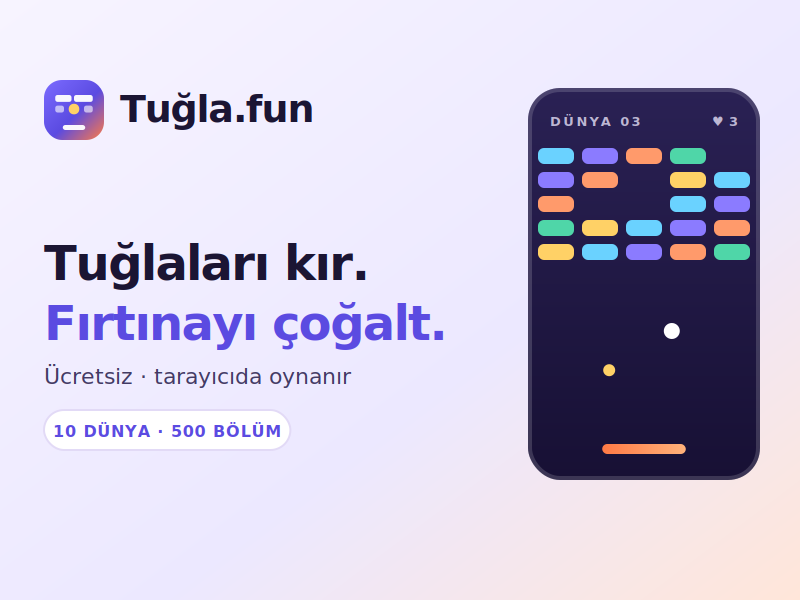
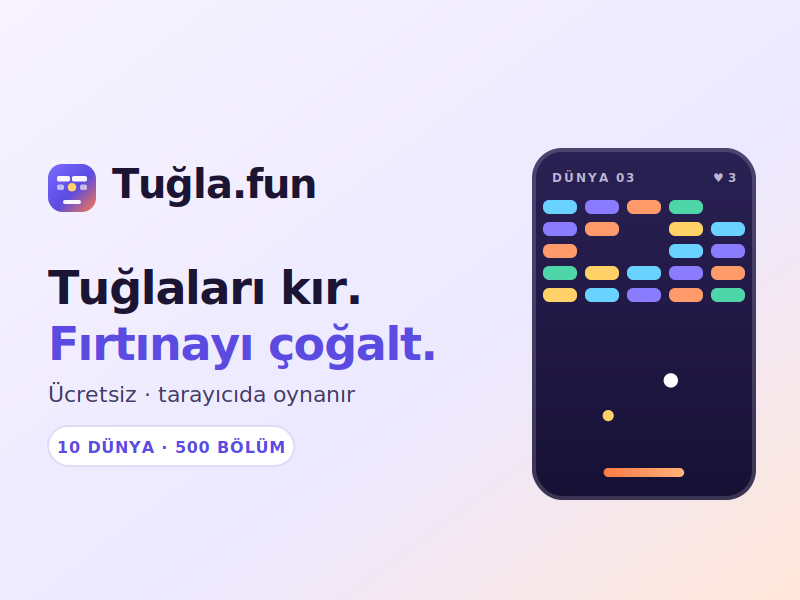
feat: canlı tuğla renkleri, tek HUD, saniye cinsinden süre ve listeleme görseli (web, marka) · v3.0
- tuğla renkleri: her NORMAL blok dünyanın tek rengini alıyordu, bu yüzden tüm
  tahta tek düze maviydi. Renk artık bloğun kendi konumundan seçiliyor (yedi
  tonluk canlı palet, açılış sahnesindeki gibi); özel türler anlamlarını
  koruyor. Malzeme parlaklığı rengi bastırmayacak şekilde düşürüldü
- HUD tek panelde ve solda: skor, kombo, can, aktif top, kalan blok ve süre yan
  yana; iki kenara bölünmüş düzen dikkati bölüyordu
- süre saniye cinsinden gösteriliyor (0:29 yerine 29 sn)
- açılış sayfasında iki sütun aynı çizgiden başlıyor; dikey ortalama biri altta
  biri üstte görünmesine yol açıyordu
- 400x300 listeleme görseli: dizinin YENİ rozeti markanın üstüne biniyordu.
  Üst şerit (sol %30 x üst %22) tamamen boş bırakıldı, marka mesaj sütununa
  taşındı; ölçümle doğrulandı
- sürüm 3.0.0

diff --git a/apps/web/app/styles.css b/apps/web/app/styles.css
@@ -326,7 +326,9 @@ code {
      looking larger than the other. */
   grid-template-columns: 1fr 1fr;
   gap: 40px;
-  align-items: stretch;
+  /* Start both halves on the same line: centring them vertically made one look
+     lower than the other whenever their natural heights differed. */
+  align-items: start;
   justify-items: center;
   padding: 40px 20px 56px;
 }
@@ -335,10 +337,11 @@ code {
   flex-direction: column;
   gap: 18px;
   align-items: center;
-  justify-content: center;
+  justify-content: flex-start;
   text-align: center;
-  /* Identical measure to the playfield card so neither half dominates. */
+  /* Identical measure and starting line to the playfield card. */
   width: min(400px, 100%);
+  padding-top: 4px;
 }
 .hero-copy h1 {
   /* Capped so the message block stays the same height as the playfield card. */
@@ -375,9 +378,8 @@ code {
 .hero-visual {
   position: relative;
   display: grid;
-  place-items: center;
+  place-items: start center;
   width: min(400px, 100%);
-  min-height: 520px;
 }
 .orb {
   position: absolute;
@@ -1535,7 +1537,9 @@ textarea:focus {
 .game-stage {
   flex: 1;
   display: grid;
-  grid-template-columns: auto 1fr auto;
+  /* One HUD column, then the board. Splitting stats across both edges made the
+     player look in two places at once. */
+  grid-template-columns: auto 1fr;
   gap: 10px;
   padding: 0 12px;
   align-items: stretch;
@@ -1543,9 +1547,9 @@ textarea:focus {
 .hud-panel {
   display: flex;
   flex-direction: column;
-  gap: 2px;
+  gap: 10px;
   padding: 14px 12px;
-  min-width: 96px;
+  min-width: 104px;
   border-radius: var(--radius);
   background: rgba(255, 255, 255, 0.06);
   border: 1px solid var(--stage-line);
@@ -2011,12 +2015,11 @@ textarea:focus {
 }
 
 @media (max-width: 900px) {
-  /* The panels sit under the board as one strip; each stat keeps its own
-     column so labels can never collide with the numbers. Four columns on the
-     right-hand panel now that elapsed time is shown. */
+  /* Under the board as one strip; every stat keeps its own column so labels can
+     never collide with the numbers. */
   .hud-panel {
     display: grid;
-    grid-template-columns: repeat(auto-fit, minmax(64px, 1fr));
+    grid-template-columns: repeat(auto-fit, minmax(58px, 1fr));
     gap: 6px 10px;
     width: 100%;
     padding: 10px 12px;
@@ -2032,14 +2035,15 @@ textarea:focus {
     font-size: 0.98rem;
   }
   .game-stage {
-    grid-template-areas: 'canvas' 'hud' 'hud2';
+    grid-template-columns: 1fr;
+    grid-template-areas: 'canvas' 'hud';
     gap: 8px;
   }
-  .game-stage .hud-panel:first-of-type {
-    grid-area: hud;
+  .canvas-frame {
+    grid-area: canvas;
   }
-  .game-stage .hud-panel-right {
-    grid-area: hud2;
+  .game-stage .hud-panel {
+    grid-area: hud;
   }
   .game-topbar {
     gap: 8px;

diff --git a/apps/web/components/GameRenderer.ts b/apps/web/components/GameRenderer.ts
@@ -67,6 +67,17 @@ const PADDLE_COLORS = [
   { color: 0xffc2d6, emissive: 0xe5487f },
 ];
 
+/**
+ * Vivid tones for ordinary bricks.
+ *
+ * Giving every NORMAL block the world's single hue made whole boards read as
+ * one flat blue — the "kasvetli" look players reported. Tones are picked from
+ * the block's own position, so the wall is colourful but never random: the same
+ * board always paints the same way, and special kinds keep their meaning
+ * colours (armored grey, explosive red…).
+ */
+const BRICK_TONES = [0x52bdf5, 0x8b7bff, 0xff9a6b, 0x4fd6a8, 0xffd166, 0x7fd8ef, 0xff8ad0];
+
 export interface LevelStyle {
   theme: string;
   index: number;
@@ -167,11 +178,10 @@ export class GameRenderer {
     blockGeometry.translate(0, 0, -0.2);
     const blockMaterial = new THREE.MeshPhysicalMaterial({
       color: 0xffffff,
-      roughness: 0.26,
-      metalness: 0.12,
-      reflectivity: 0.75,
-      emissive: 0x120e2e,
-      emissiveIntensity: 0.3,
+      roughness: 0.32,
+      metalness: 0.05,
+      reflectivity: 0.7,
+      emissiveIntensity: 0,
       sheen: quality.level === 'LOW' ? 0 : 0.6,
       sheenRoughness: 0.4,
       clearcoat: quality.level === 'LOW' ? 0 : 1,
@@ -391,11 +401,17 @@ export class GameRenderer {
 
   private applyBlockColors() {
     this.engine.snapshot.blocks.forEach((block, index) => {
-      this.tempColor.setHex(
-        block.kind === 'NORMAL'
-          ? this.palette.block
-          : (BLOCK_COLORS[block.kind] ?? this.palette.block),
-      );
+      if (block.kind === 'NORMAL') {
+        // Tone from the brick's own position: the wall is colourful but stable,
+        // and neighbouring bricks always differ.
+        // origin is the block's authored position and never moves, so a moving
+        // block keeps its colour instead of flickering through the palette.
+        const column = Math.round(block.origin.x);
+        const row = Math.round(block.origin.y);
+        this.tempColor.setHex(BRICK_TONES[(column + row) % BRICK_TONES.length]!);
+      } else {
+        this.tempColor.setHex(BLOCK_COLORS[block.kind] ?? this.palette.block);
+      }
       this.blockMesh.setColorAt(index, this.tempColor);
     });
     if (this.blockMesh.instanceColor) this.blockMesh.instanceColor.needsUpdate = true;

diff --git a/apps/web/components/GameCanvas.tsx b/apps/web/components/GameCanvas.tsx
@@ -22,10 +22,7 @@ interface ViewState {
 }
 
 /** Ticks run at a fixed 120 Hz, so elapsed time is exact, not wall-clock. */
-const formatElapsed = (tick: number) => {
-  const seconds = Math.floor(tick / 120);
-  return `${Math.floor(seconds / 60)}:${String(seconds % 60).padStart(2, '0')}`;
-};
+const formatElapsed = (tick: number) => Math.floor(tick / 120);
 
 export interface CompletionSummary {
   accepted: boolean;
@@ -309,6 +306,22 @@ export function GameCanvas({
               <strong className="overcharge">×{view.overcharge.toFixed(2)}</strong>
             </div>
           )}
+          <div className="hud-stat">
+            <span>{t('game.hud.lives')}</span>
+            <strong className="hud-lives">{'♥'.repeat(Math.max(0, view.lives))}</strong>
+          </div>
+          <div className="hud-stat">
+            <span>{t('game.hud.balls')}</span>
+            <strong className="accent">{view.balls}</strong>
+          </div>
+          <div className="hud-stat">
+            <span>{t('game.hud.blocks')}</span>
+            <strong>{view.blocksRemaining}</strong>
+          </div>
+          <div className="hud-stat hud-time">
+            <span>{t('game.hud.time')}</span>
+            <strong>{t('game.hud.seconds', { seconds: formatElapsed(view.tick) })}</strong>
+          </div>
         </aside>
 
         <div className="canvas-frame">
@@ -430,25 +443,6 @@ export function GameCanvas({
             </div>
           )}
         </div>
-
-        <aside className="hud-panel hud-panel-right">
-          <div className="hud-stat">
-            <span>{t('game.hud.lives')}</span>
-            <strong className="hud-lives">{'♥'.repeat(Math.max(0, view.lives))}</strong>
-          </div>
-          <div className="hud-stat">
-            <span>{t('game.hud.balls')}</span>
-            <strong className="accent">{view.balls}</strong>
-          </div>
-          <div className="hud-stat">
-            <span>{t('game.hud.blocks')}</span>
-            <strong>{view.blocksRemaining}</strong>
-          </div>
-          <div className="hud-stat hud-time">
-            <span>{t('game.hud.time')}</span>
-            <strong>{formatElapsed(view.tick)}</strong>
-          </div>
-        </aside>
       </div>
     </section>
   );

diff --git a/apps/web/lib/i18n.tsx b/apps/web/lib/i18n.tsx
@@ -112,6 +112,7 @@ const tr = {
   'game.hud.balls': 'AKTİF TOP',
   'game.hud.blocks': 'KALAN BLOK',
   'game.hud.time': 'SÜRE',
+  'game.hud.seconds': '{seconds} sn',
   'game.instruction.title': 'PLATFORMU HAREKET ETTİR',
   'game.instruction.body': 'İlk hareketin topun çıkış açısını belirler.',
   'game.settings.title': 'Görüntü ayarları',
@@ -495,6 +496,7 @@ const en: Record<TranslationKey, string> = {
   'game.hud.balls': 'ACTIVE BALLS',
   'game.hud.blocks': 'BLOCKS LEFT',
   'game.hud.time': 'TIME',
+  'game.hud.seconds': '{seconds} s',
   'game.instruction.title': 'MOVE THE PADDLE',
   'game.instruction.body': 'Your first move sets the launch angle.',
   'game.settings.title': 'Display settings',
